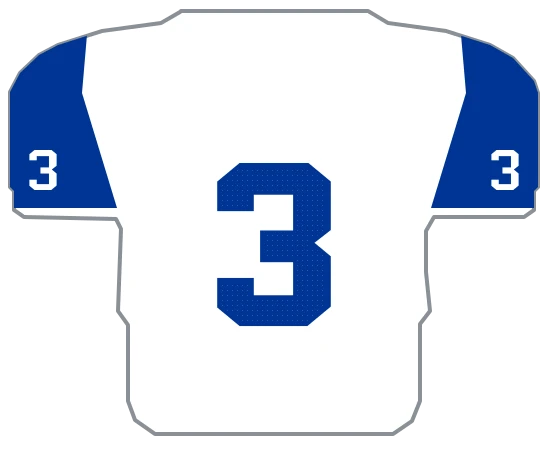
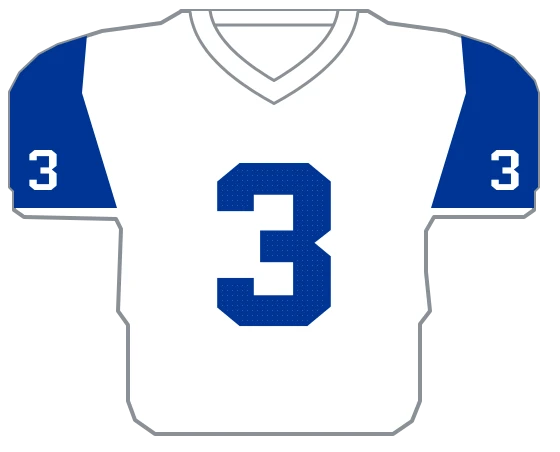
fix(uniforms): correct the Cowboys jersey collars (#918)

diff --git a/web/lib/uniforms/teams/cowboys/jerseys/white.ts b/web/lib/uniforms/teams/cowboys/jerseys/white.ts
@@ -1,10 +1,18 @@
 import type { CompleteJerseySpec } from '../../core/complete';
 import { COWBOYS_SLEEVE_CAPS_NAVY } from '../marks/construction';
 
-// White body under navy sleeve caps, navy numerals.
+// White body under navy sleeve caps, a keylined white V collar, navy numerals.
 export const COWBOYS_JERSEY_WHITE: CompleteJerseySpec = {
   body: 'white',
-  collar: { style: 'none' },
+  collar: {
+    style: 'inset-v',
+    color: 'white',
+    trim: 'none',
+    inside: 'body',
+    lining: 'none',
+    backBar: 'none',
+    outline: true,
+  },
   shoulderPanel: 'none',
   shoulderStripes: 'none',
   shoulderNumber: 'none',
